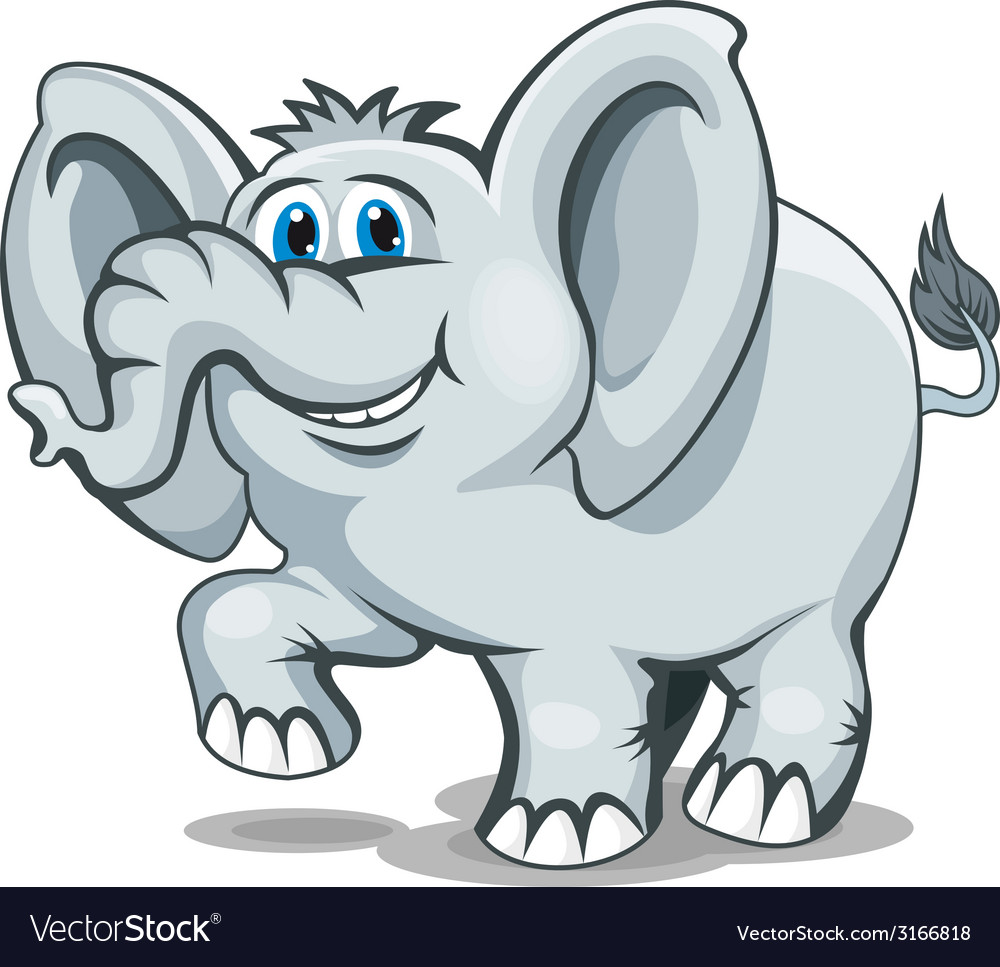
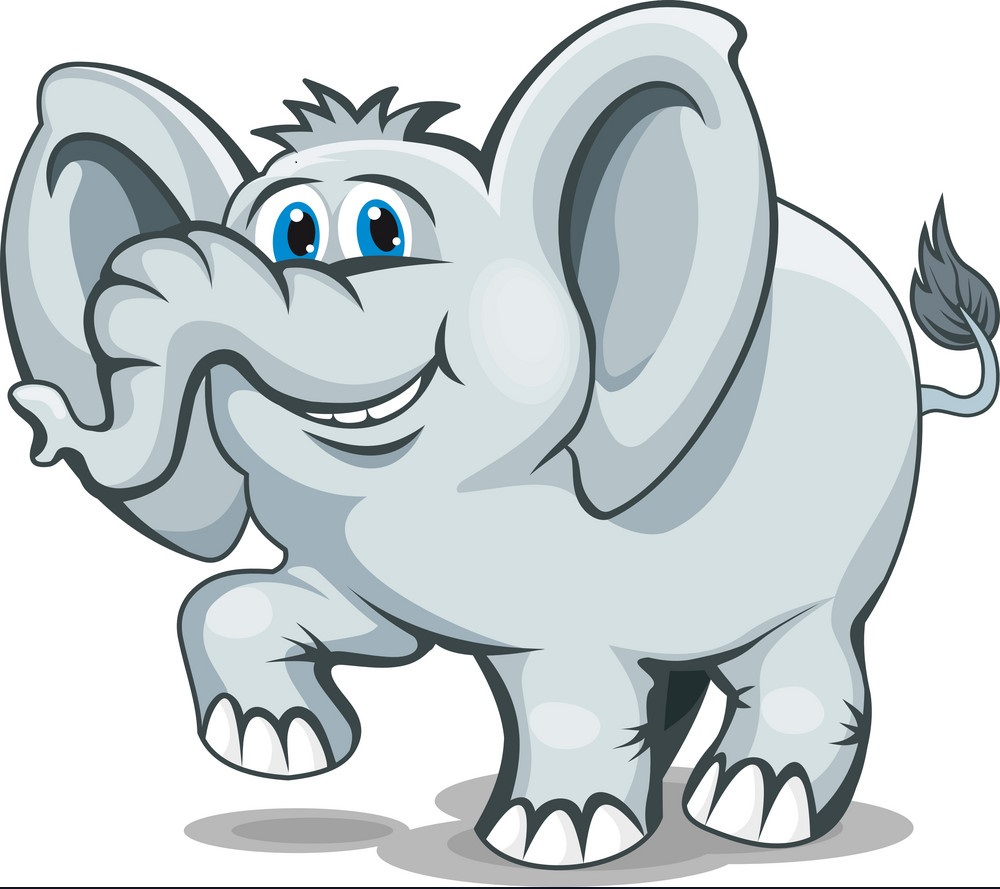
Made resuable component with custom hooks

diff --git a/src/pages/Elephant.js b/src/pages/Elephant.js
@@ -1,7 +1,9 @@
 import React, { useState, useEffect } from 'react';
-import classes from './Monkey.module.css';
+import classes from './../index.module.css';
 import smilingElephant from './../components/Images/smiling elephant.jpg';
 import elephantCantWalk from './../components/Images/elephant cant walk.jpg';
+import { useElapsedOneHour } from './../hooks/useElapsedOneHour';
+import { useZooTime } from './../hooks/useZooTime';
 const elephantList = [
   {
     id: 'e1',
@@ -45,7 +47,6 @@ const elephantList = [
 
 const Elephant = () => {
   const [elephants, setElephants] = useState(elephantList);
-  const [time, setTime] = useState(new Date());
 
   useEffect(() => {
     const startTime = new Date().getTime();
@@ -54,9 +55,8 @@ const Elephant = () => {
       const currentTime = new Date().getTime();
       const elapsedTime = currentTime - startTime;
 
-      if (elapsedTime >= 5000) {
+      if (elapsedTime >= 360000) {
         onHourReduce();
-        onHourReduce2();
 
         clearInterval(intervalId);
       }
@@ -65,13 +65,6 @@ const Elephant = () => {
     // Clean up the interval when the component unmounts
     return () => clearInterval(intervalId);
   }, [elephants]);
-
-  useEffect(() => {
-    const timer = setInterval(() => setTime(new Date()), 1000);
-    return function cleanup() {
-      clearInterval(timer);
-    };
-  }, []);
 
   const onHourReduce = () => {
     const updatedReductionElephants = elephants.map((elephant) => {
@@ -98,34 +91,11 @@ const Elephant = () => {
     });
 
     setElephants(updatedReductionElephants);
+    if (elephants.health) {
+    }
   };
 
-  const onHourReduce2 = () => {
-    const updatedReductionElephants = elephants.map((elephant) => {
-      const generatedRandomNumber = Math.floor(Math.random() * 20) + 1; // Generate random number between 0 and 20
-      const percentage = (generatedRandomNumber / 100) * elephant.health;
-      const currentHealthStatus = elephant.health - percentage; // Ensure health doesn't go below 0
-
-      const updatedStatus =
-        currentHealthStatus < 70 ? (
-          <p style={{ color: 'red' }}>Dead</p>
-        ) : (
-          'Alive and can walk'
-        );
-
-      const updatedImage =
-        currentHealthStatus < 70 ? elephantCantWalk : smilingElephant;
-
-      return {
-        ...elephant,
-        health: currentHealthStatus,
-        status: updatedStatus,
-        image: updatedImage,
-      };
-    });
-
-    setElephants(updatedReductionElephants);
-  };
+  useElapsedOneHour(elephants, onHourReduce);
 
   const onFeedAnimal = () => {
     const feedUpdate = elephants.map((elephant) => {
@@ -164,7 +134,7 @@ const Elephant = () => {
             <h2>{elephantCharacteristics.name}</h2>
             <img
               src={elephantCharacteristics.image}
-              width="100%"
+              width="95%"
               height="100%"
               alt=""
             />
@@ -184,7 +154,7 @@ const Elephant = () => {
       </div>
       <div className={classes.timerSection}>
         <h4 className={classes.timeDisplay}>
-          Current zoo time: {time.toLocaleTimeString()}
+          Current zoo time: {useZooTime().toLocaleTimeString()}
         </h4>
       </div>
     </div>

diff --git a/src/pages/Monkey.js b/src/pages/Monkey.js
@@ -1,7 +1,9 @@
 import React, { useState, useEffect } from 'react';
-import classes from './Monkey.module.css';
+import classes from './../index.module.css';
 import smilingMonkey from './../components/Images/Smiling monkey.png';
 import deadMonkeyPicture from './../components/Images/Dead monkey.jpg';
+import { useZooTime } from './../hooks/useZooTime';
+import { useElapsedOneHour } from './../hooks/useElapsedOneHour';
 const monkeyList = [
   {
     id: 'm1',
@@ -45,31 +47,6 @@ const monkeyList = [
 
 const Monkey = () => {
   const [monkeys, setMonkeys] = useState(monkeyList);
-  const [time, setTime] = useState(new Date());
-
-  useEffect(() => {
-    const startTime = new Date().getTime();
-
-    const intervalId = setInterval(() => {
-      const currentTime = new Date().getTime();
-      const elapsedTime = currentTime - startTime;
-
-      if (elapsedTime >= 3600000) {
-        onHourReduce();
-        clearInterval(intervalId);
-      }
-    }, 1000);
-
-    // Clean up the interval when the component unmounts
-    return () => clearInterval(intervalId);
-  }, [monkeys]);
-
-  useEffect(() => {
-    const timer = setInterval(() => setTime(new Date()), 1000);
-    return function cleanup() {
-      clearInterval(timer);
-    };
-  }, []);
 
   const onHourReduce = () => {
     const updatedReductionMonkeys = monkeys.map((monkey) => {
@@ -78,14 +55,14 @@ const Monkey = () => {
       const currentHealthStatus = monkey.health - percentage; // Ensure health doesn't go below 0
 
       const updatedStatus =
-        currentHealthStatus < 30 ? (
+        currentHealthStatus < 29 ? (
           <p style={{ color: 'red' }}>Dead</p>
         ) : (
           'Alive'
         );
 
       const updatedImage =
-        currentHealthStatus < 30 ? deadMonkeyPicture : smilingMonkey;
+        currentHealthStatus < 29 ? deadMonkeyPicture : smilingMonkey;
 
       return {
         ...monkey,
@@ -98,6 +75,8 @@ const Monkey = () => {
     setMonkeys(updatedReductionMonkeys);
   };
 
+  useElapsedOneHour(monkeys, onHourReduce);
+
   const onFeedAnimal = () => {
     const feedUpdate = monkeys.map((monkey) => {
       const feedGeneratedRandomNumber =
@@ -107,14 +86,14 @@ const Monkey = () => {
       const healthCappedAt100 =
         increasedHealthStatus > 100 ? 100 : increasedHealthStatus;
       const updatedStatus =
-        increasedHealthStatus < 30 ? (
+        increasedHealthStatus < 29 ? (
           <p style={{ color: 'red' }}>Dead</p>
         ) : (
           'Alive'
         );
 
       const updatedImage =
-        increasedHealthStatus < 30 ? deadMonkeyPicture : smilingMonkey;
+        increasedHealthStatus < 29 ? deadMonkeyPicture : smilingMonkey;
 
       return {
         ...monkey,
@@ -154,7 +133,7 @@ const Monkey = () => {
       </div>
       <div className={classes.timerSection}>
         <h4 className={classes.timeDisplay}>
-          Current zoo time: {time.toLocaleTimeString()}
+          Current zoo time: {useZooTime().toLocaleTimeString()}
         </h4>
       </div>
     </div>

diff --git a/src/pages/Giraffe.js b/src/pages/Giraffe.js
@@ -1,6 +1,8 @@
 import React, { useState, useEffect } from 'react';
-import classes from './Monkey.module.css';
+import classes from './../index.module.css';
 import smilingGiraffe from './../components/Images/smiling Giraffe.jpg';
+import { useElapsedOneHour } from './../hooks/useElapsedOneHour';
+import { useZooTime } from './../hooks/useZooTime';
 import deadGiraffe from './../components/Images/dead giraffe.jpg';
 const giraffeList = [
   {
@@ -45,31 +47,6 @@ const giraffeList = [
 
 const Giraffe = () => {
   const [giraffes, setGiraffes] = useState(giraffeList);
-  const [time, setTime] = useState(new Date());
-
-  useEffect(() => {
-    const startTime = new Date().getTime();
-
-    const intervalId = setInterval(() => {
-      const currentTime = new Date().getTime();
-      const elapsedTime = currentTime - startTime;
-
-      if (elapsedTime >= 3600000) {
-        onHourReduce();
-        clearInterval(intervalId);
-      }
-    }, 1000);
-
-    // Clean up the interval when the component unmounts
-    return () => clearInterval(intervalId);
-  }, [giraffes]);
-
-  useEffect(() => {
-    const timer = setInterval(() => setTime(new Date()), 1000);
-    return function cleanup() {
-      clearInterval(timer);
-    };
-  }, []);
 
   const onHourReduce = () => {
     const updatedReductionGiraffes = giraffes.map((giraffe) => {
@@ -78,14 +55,14 @@ const Giraffe = () => {
       const currentHealthStatus = giraffe.health - percentage; // Ensure health doesn't go below 0
 
       const updatedStatus =
-        currentHealthStatus < 50 ? (
+        currentHealthStatus < 49 ? (
           <p style={{ color: 'red' }}>Dead</p>
         ) : (
           'Alive'
         );
 
       const updatedImage =
-        currentHealthStatus < 50 ? deadGiraffe : smilingGiraffe;
+        currentHealthStatus < 49 ? deadGiraffe : smilingGiraffe;
 
       return {
         ...giraffe,
@@ -98,6 +75,8 @@ const Giraffe = () => {
     setGiraffes(updatedReductionGiraffes);
   };
 
+  useElapsedOneHour(giraffes, onHourReduce);
+
   const onFeedAnimal = () => {
     const feedUpdate = giraffes.map((giraffe) => {
       const feedGeneratedRandomNumber =
@@ -107,14 +86,14 @@ const Giraffe = () => {
       const healthCappedAt100 =
         increasedHealthStatus > 100 ? 100 : increasedHealthStatus;
       const updatedStatus =
-        increasedHealthStatus < 50 ? (
+        increasedHealthStatus < 49 ? (
           <p style={{ color: 'red' }}>Dead</p>
         ) : (
           'Alive'
         );
 
       const updatedImage =
-        increasedHealthStatus < 50 ? deadGiraffe : smilingGiraffe;
+        increasedHealthStatus < 49 ? deadGiraffe : smilingGiraffe;
 
       return {
         ...giraffe,
@@ -154,7 +133,7 @@ const Giraffe = () => {
       </div>
       <div className={classes.timerSection}>
         <h4 className={classes.timeDisplay}>
-          Current zoo time: {time.toLocaleTimeString()}
+          Current zoo time: {useZooTime().toLocaleTimeString()}
         </h4>
       </div>
     </div>

diff --git a/src/hooks/useElapsedOneHour.js b/src/hooks/useElapsedOneHour.js
@@ -1,0 +1,21 @@
+import { useEffect } from 'react';
+export const useElapsedOneHour = (animal, onTimeReduce) => {
+  useEffect(() => {
+    const startTime = new Date().getTime();
+
+    const intervalId = setInterval(() => {
+      const currentTime = new Date().getTime();
+      const elapsedTime = currentTime - startTime;
+
+      if (elapsedTime >= 3600000) {
+        onTimeReduce();
+        clearInterval(intervalId);
+      }
+    }, 1000);
+
+    // Clean up the interval when the component unmounts
+    return () => clearInterval(intervalId);
+  }, [animal]);
+};
+
+export default useElapsedOneHour;

diff --git a/src/hooks/useZooTime.js b/src/hooks/useZooTime.js
@@ -1,0 +1,15 @@
+import { useEffect, useState } from 'react';
+
+export const useZooTime = () => {
+  const [time, setTime] = useState(new Date());
+  useEffect(() => {
+    const timer = setInterval(() => setTime(new Date()), 1000);
+    return function cleanup() {
+      clearInterval(timer);
+    };
+  }, []);
+
+  return time;
+};
+
+export default useZooTime;

diff --git a/src/index.module.css b/src/index.module.css
@@ -1,3 +1,10 @@
+* {
+    margin: 0;
+    padding: 0;
+    box-sizing: border-box;
+    font-family: Arial, Helvetica, sans-serif;
+}
+
 .container ul {
     display: grid;
     grid-template-columns: repeat(auto-fit, minmax(200px, 1fr));

diff --git a/src/index.js b/src/index.js
@@ -1,6 +1,6 @@
 import React from 'react';
 import ReactDOM from 'react-dom/client';
-import './index.css';
+import './index.module.css';
 import App from './App';
 
 const el = document.getElementById('root');
